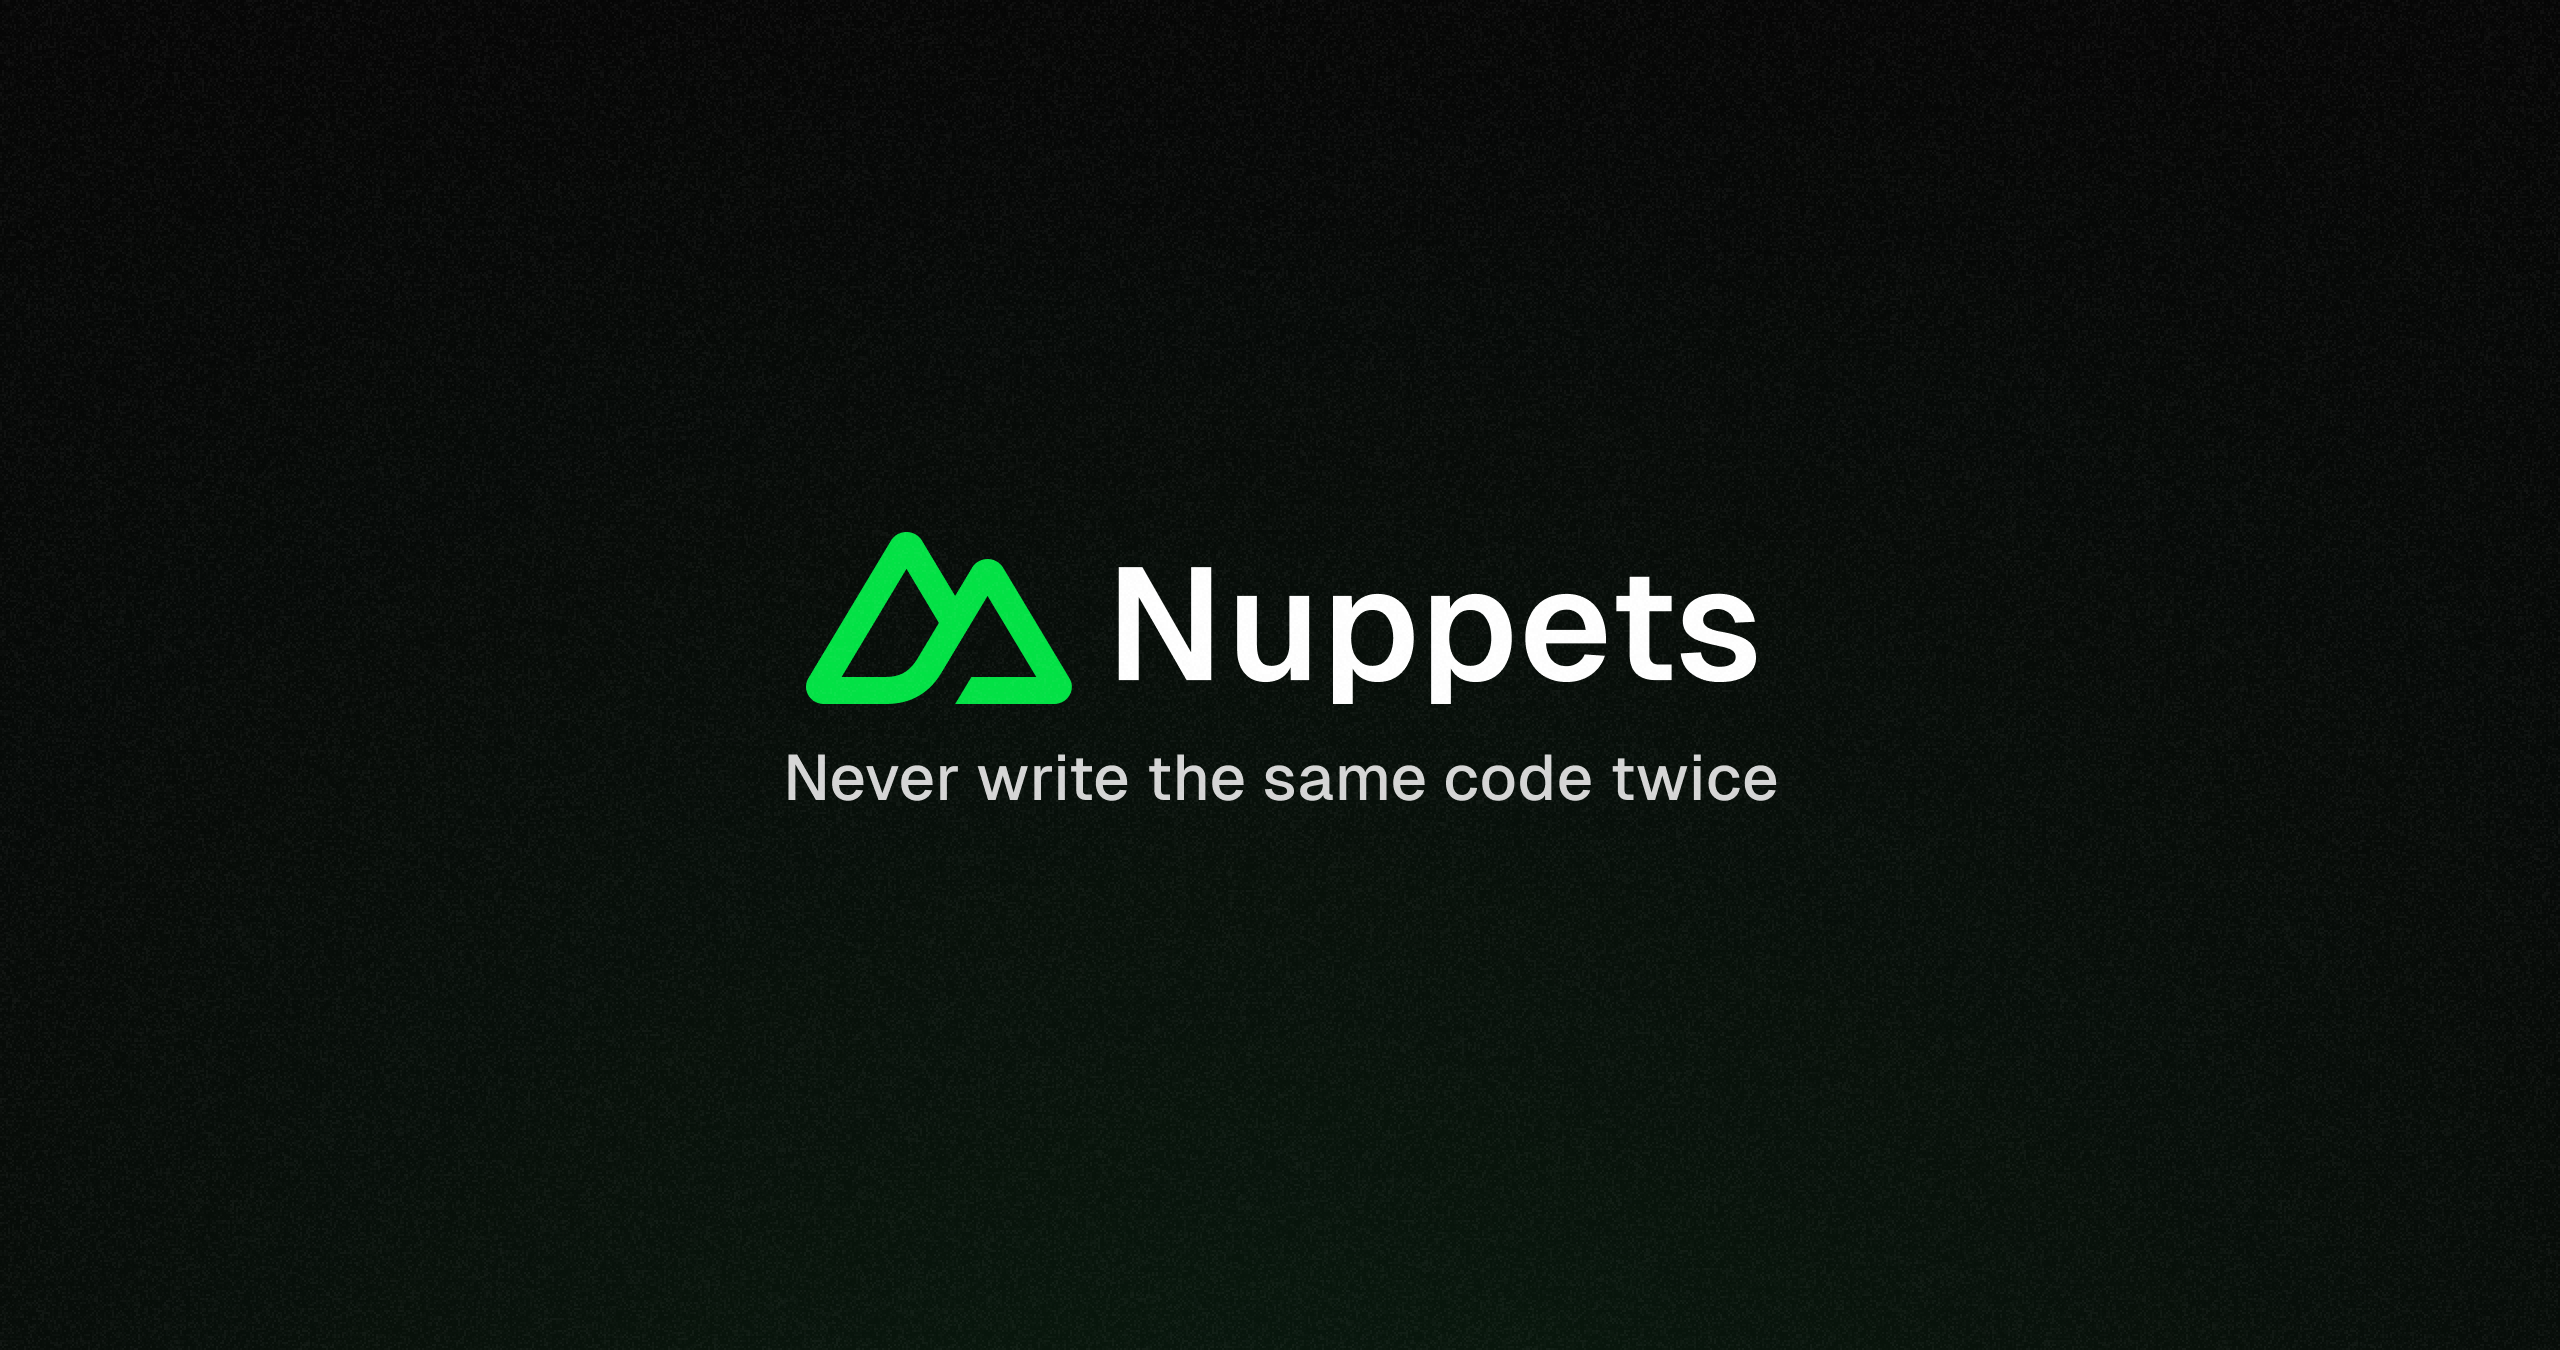
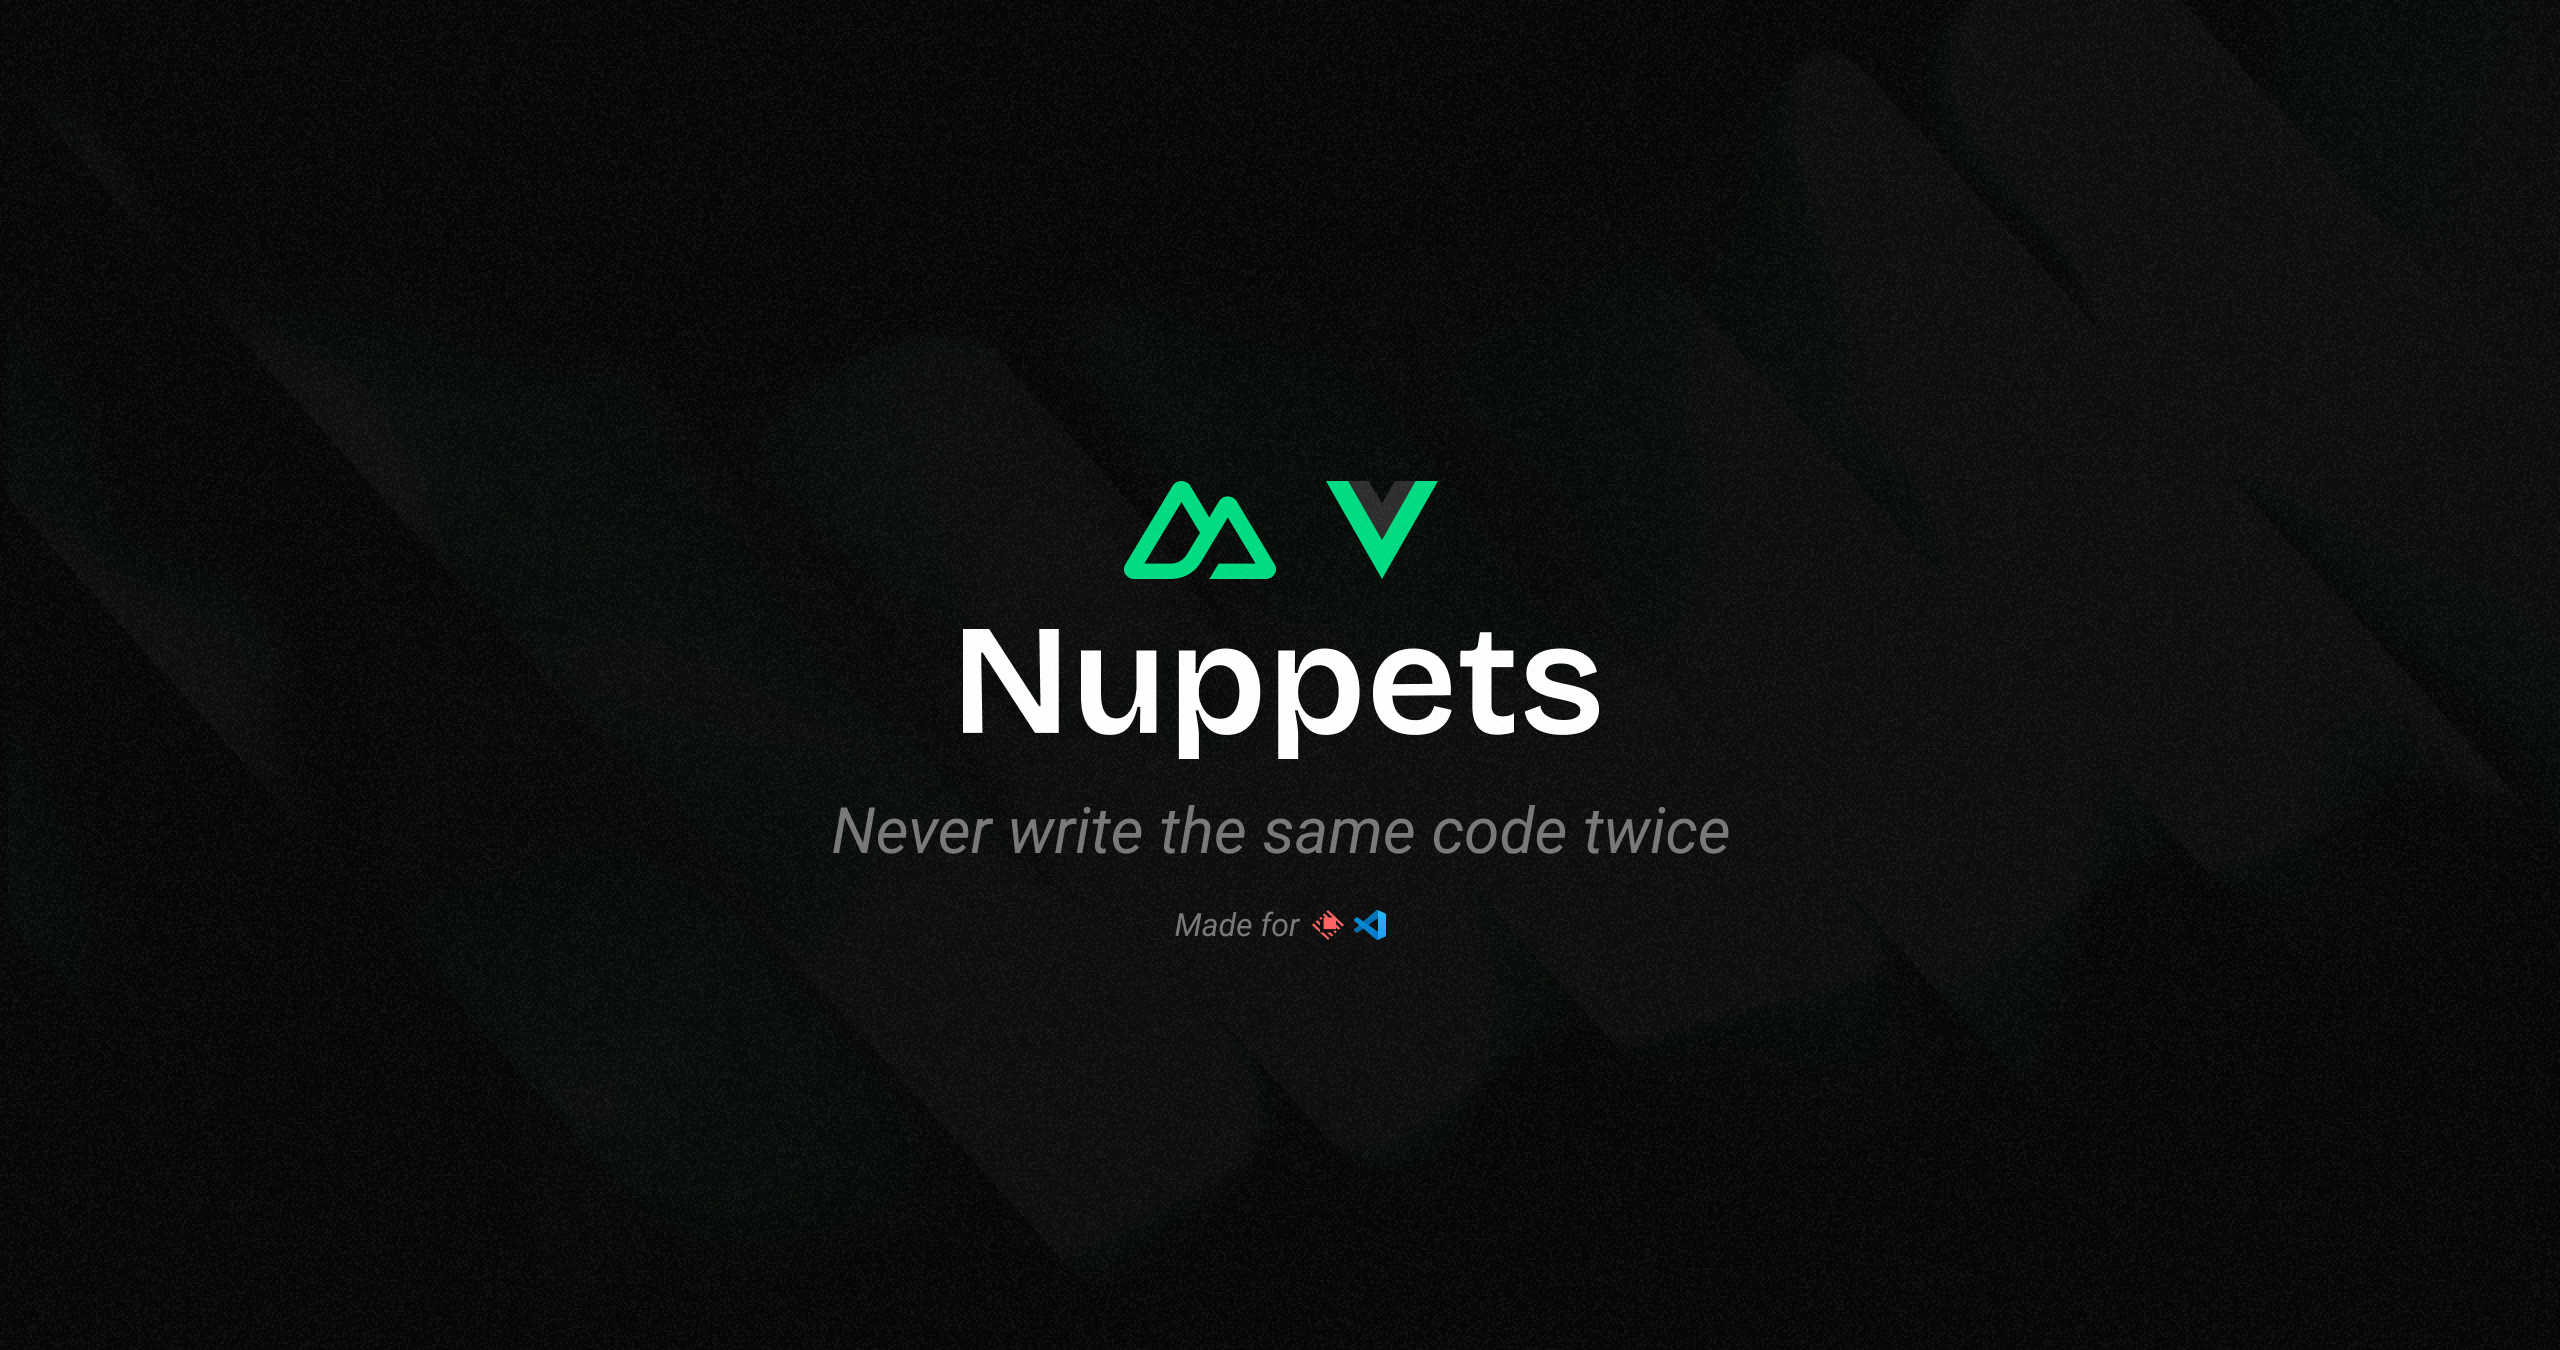
feat: Improve SEO (#4)

Changed region(s): [[0.2812, 0.3422, 0.6875, 0.6533], [0.4688, 0.6844, 0.5, 0.7156]]

diff --git a/app/components/Logo.vue b/app/components/Logo.vue
@@ -1,12 +1,7 @@
 <template>
-  <svg width="243" height="44" viewBox="0 0 243 44" fill="fillCurrent" xmlns="http://www.w3.org/2000/svg">
-    <path d="M38.1485 44H63.427C64.23 44 65.0186 43.7969 65.714 43.4107C66.4049 43.0288 66.9823 42.4732 67.388 41.7999C67.7881 41.1345 67.9996 40.3744 68 39.5997C68 38.8273 67.7878 38.0689 67.3859 37.4001L50.4098 9.11458C50.004 8.44148 49.4268 7.88611 48.7361 7.50425C48.0373 7.11713 47.25 6.91415 46.4496 6.9147C45.6466 6.9147 44.8582 7.11807 44.1628 7.50425C43.4722 7.88612 42.8951 8.4415 42.4894 9.11458L38.1485 16.3517L29.6618 2.19936C29.2557 1.5263 28.6782 0.971027 27.9873 0.589288C27.2883 0.202298 26.5009 -0.000583975 25.7003 1.26256e-06C24.8976 1.26256e-06 24.1087 0.203367 23.4132 0.589288C22.7224 0.971064 22.145 1.52633 21.739 2.19936L0.613594 37.4001C0.212755 38.065 0.000736268 38.825 0 39.5997C0 40.3721 0.210641 41.131 0.612 41.7999C1.01776 42.4732 1.59509 43.0288 2.28597 43.4107C2.98498 43.7978 3.77239 44.0007 4.573 44H20.4406C26.7277 44 31.3639 41.3436 34.5544 36.1609L46.4482 16.3517L58.8992 37.0945H42.2997L38.1485 44ZM20.1817 37.0877L9.10828 37.085L25.7077 9.42964L33.9902 23.2575L28.4447 32.4996C26.3261 35.8622 23.919 37.0877 20.1817 37.0877Z" fill="white" />
-    <path d="M86.0652 9L98.5214 30.814V9H103.65V37.8954H97.3409L85.129 16.6512V37.8954H80V9H86.0652Z" fill="white" />
-    <path d="M124.009 37.8954L123.887 32.0349L124.538 32.4012C124.186 34.4632 123.385 35.9826 122.137 36.9593C120.888 37.9089 119.369 38.3837 117.578 38.3837C115.271 38.3837 113.48 37.6376 112.204 36.1454C110.929 34.6531 110.291 32.6725 110.291 30.2035V16.3256H115.339V28.5756C115.339 29.8779 115.461 30.936 115.705 31.75C115.977 32.564 116.37 33.188 116.886 33.6221C117.428 34.0291 118.161 34.2326 119.084 34.2326C120.495 34.2326 121.608 33.7578 122.422 32.8081C123.236 31.8314 123.643 30.4205 123.643 28.5756V16.3256H128.691V37.8954H124.009Z" fill="white" />
-    <path d="M134.812 16.3256H139.574L139.737 20.843L139.33 20.314C139.873 18.876 140.728 17.7771 141.895 17.0174C143.089 16.2306 144.527 15.8372 146.21 15.8372C148.218 15.8372 149.914 16.3391 151.298 17.343C152.682 18.3469 153.713 19.7035 154.391 21.4128C155.097 23.095 155.45 24.9942 155.45 27.1105C155.45 29.2267 155.097 31.1395 154.391 32.8488C153.713 34.531 152.682 35.874 151.298 36.8779C149.914 37.8818 148.218 38.3837 146.21 38.3837C145.097 38.3837 144.079 38.2074 143.157 37.8547C142.261 37.5019 141.488 36.9864 140.836 36.3081C140.212 35.6298 139.724 34.7888 139.371 33.7849L139.859 33.3779V44H134.812V16.3256ZM139.452 27.1105C139.452 28.4128 139.642 29.6066 140.022 30.6919C140.429 31.75 141.04 32.6047 141.854 33.2558C142.668 33.907 143.659 34.2326 144.826 34.2326C146.589 34.2326 147.919 33.5543 148.815 32.1977C149.737 30.8411 150.199 29.1453 150.199 27.1105C150.199 25.1027 149.737 23.407 148.815 22.0233C147.919 20.6395 146.589 19.9477 144.826 19.9477C143.659 19.9477 142.668 20.2868 141.854 20.9651C141.04 21.6163 140.429 22.4845 140.022 23.5698C139.642 24.6279 139.452 25.8081 139.452 27.1105Z" fill="white" />
-    <path d="M159.895 16.3256H164.658L164.821 20.843L164.414 20.314C164.957 18.876 165.811 17.7771 166.978 17.0174C168.172 16.2306 169.611 15.8372 171.293 15.8372C173.301 15.8372 174.997 16.3391 176.382 17.343C177.766 18.3469 178.797 19.7035 179.475 21.4128C180.181 23.095 180.534 24.9942 180.534 27.1105C180.534 29.2267 180.181 31.1395 179.475 32.8488C178.797 34.531 177.766 35.874 176.382 36.8779C174.997 37.8818 173.301 38.3837 171.293 38.3837C170.181 38.3837 169.163 38.2074 168.24 37.8547C167.345 37.5019 166.571 36.9864 165.92 36.3081C165.296 35.6298 164.807 34.7888 164.455 33.7849L164.943 33.3779V44H159.895V16.3256ZM164.536 27.1105C164.536 28.4128 164.726 29.6066 165.106 30.6919C165.513 31.75 166.123 32.6047 166.938 33.2558C167.752 33.907 168.742 34.2326 169.909 34.2326C171.673 34.2326 173.003 33.5543 173.898 32.1977C174.821 30.8411 175.282 29.1453 175.282 27.1105C175.282 25.1027 174.821 23.407 173.898 22.0233C173.003 20.6395 171.673 19.9477 169.909 19.9477C168.742 19.9477 167.752 20.2868 166.938 20.9651C166.123 21.6163 165.513 22.4845 165.106 23.5698C164.726 24.6279 164.536 25.8081 164.536 27.1105Z" fill="white" />
-    <path d="M183.995 27.1105C183.995 24.8314 184.429 22.8508 185.297 21.1686C186.166 19.4593 187.4 18.1434 189.001 17.2209C190.603 16.2985 192.461 15.8372 194.578 15.8372C196.451 15.8372 198.133 16.2578 199.626 17.0988C201.118 17.9399 202.312 19.2151 203.208 20.9244C204.103 22.6066 204.578 24.6822 204.633 27.1512V28.4942H189.286C189.395 30.3391 189.911 31.7771 190.833 32.8081C191.756 33.812 193.004 34.314 194.578 34.314C195.582 34.314 196.491 34.0562 197.306 33.5407C198.147 32.9981 198.771 32.2519 199.178 31.3023L204.348 31.6686C203.696 33.7306 202.475 35.3721 200.684 36.593C198.92 37.7868 196.885 38.3837 194.578 38.3837C192.461 38.3837 190.603 37.9225 189.001 37C187.4 36.0775 186.166 34.7616 185.297 33.0523C184.429 31.343 183.995 29.3624 183.995 27.1105ZM199.422 25.0349C199.205 23.2713 198.649 21.969 197.753 21.1279C196.885 20.2868 195.827 19.8663 194.578 19.8663C193.113 19.8663 191.932 20.3275 191.037 21.25C190.141 22.1454 189.571 23.407 189.327 25.0349H199.422Z" fill="white" />
-    <path d="M215.722 11.4419V31.343C215.722 32.1841 215.926 32.8217 216.333 33.2558C216.767 33.6899 217.378 33.907 218.165 33.907H221.421V37.8954H217.391C215.193 37.8954 213.524 37.3391 212.384 36.2267C211.245 35.1143 210.675 33.4864 210.675 31.343V11.4419H215.722ZM221.421 16.3256V20.2733H207.296V16.3256H221.421Z" fill="white" />
-    <path d="M237.627 23.2035C237.41 22.1182 236.867 21.2636 235.998 20.6395C235.157 20.0155 234.207 19.7035 233.149 19.7035C232.091 19.7035 231.209 19.9612 230.503 20.4767C229.825 20.9923 229.485 21.6705 229.485 22.5116C229.513 23.3527 229.933 24.0039 230.747 24.4651C231.562 24.8992 232.62 25.2384 233.922 25.4826C235.985 25.8353 237.667 26.2694 238.97 26.7849C240.273 27.2733 241.263 27.9516 241.942 28.8198C242.647 29.688 243 30.8004 243 32.157C243 33.5407 242.593 34.6938 241.779 35.6163C240.965 36.5388 239.866 37.2306 238.482 37.6919C237.125 38.1531 235.591 38.3837 233.882 38.3837C231.955 38.3837 230.245 38.0853 228.753 37.4884C227.26 36.8915 226.08 36.0504 225.211 34.9651C224.37 33.8527 223.882 32.5504 223.746 31.0581L228.916 30.7733C229.051 31.5601 229.323 32.2248 229.73 32.7674C230.164 33.3101 230.72 33.7306 231.399 34.0291C232.077 34.3275 232.878 34.4767 233.8 34.4767C234.859 34.4767 235.781 34.2733 236.568 33.8663C237.383 33.4593 237.79 32.8353 237.79 31.9942C237.79 31.4244 237.613 30.9632 237.26 30.6105C236.935 30.2578 236.514 30 235.998 29.8372C235.51 29.6473 234.832 29.4574 233.963 29.2674C233.746 29.2403 233.448 29.1725 233.068 29.064C231.087 28.657 229.485 28.2229 228.264 27.7616C227.043 27.3004 226.066 26.6628 225.333 25.8488C224.628 25.0078 224.275 23.936 224.275 22.6337C224.275 21.25 224.641 20.0426 225.374 19.0116C226.134 17.9806 227.192 17.1938 228.549 16.6512C229.933 16.0814 231.561 15.7965 233.434 15.7965C235.931 15.7965 238.007 16.4477 239.662 17.75C241.345 19.0252 242.362 20.7616 242.715 22.9593L237.627 23.2035Z" fill="white" />
-  </svg>
+  <div>
+    <span class="font-grotesque text-2xl font-bold">
+      Nuppets
+    </span>
+  </div>
 </template>

diff --git a/app/components/Hero.vue b/app/components/Hero.vue
@@ -11,10 +11,14 @@ defineProps<{
     :title
     :description
     icon="simple-icons:nuxtdotjs"
-    :ui="{ description: 'italic before:content-[open-quote] after:content-[close-quote]', headline: 'mb-0', links: 'mt-4' }"
+    :ui="{ title: 'font-grotesque', description: 'italic before:content-[open-quote] after:content-[close-quote]', headline: 'mb-0', links: 'mt-4' }"
   >
     <template #headline>
-      <UIcon name="simple-icons:nuxtdotjs" class="size-10" />
+      <div class="flex items-center justify-center gap-2">
+        <UIcon name="simple-icons:nuxtdotjs" class="size-10" />
+        <USeparator orientation="vertical" class="h-10 w-2" />
+        <UIcon name="simple-icons:vuedotjs" class="h-10 w-8" />
+      </div>
     </template>
 
     <template #links>

diff --git a/app/app.config.ts b/app/app.config.ts
@@ -16,12 +16,33 @@ export default defineAppConfig({
     }
   },
   title: 'Nuppets',
-  description: 'Never write the same code twice',
+  description: 'A universal hub for Nuxt and Vue snippets - Available for Raycast, VS Code, and more',
   link: [
     {
       rel: 'icon',
       type: 'image/x-icon',
       href: '/favicon.ico',
+    },
+    {
+      rel: 'apple-touch-icon',
+      sizes: '180x180',
+      href: '/apple-touch-icon.png',
+    },
+    {
+      rel: 'icon',
+      type: 'image/png',
+      sizes: '32x32',
+      href: '/favicon-32x32.png',
+    },
+    {
+      rel: 'icon',
+      type: 'image/png',
+      sizes: '16x16',
+      href: '/favicon-16x16.png',
+    },
+    {
+      rel: 'manifest',
+      href: '/site.webmanifest',
     },
   ],
 })

diff --git a/app/app.vue b/app/app.vue
@@ -16,7 +16,12 @@ const {
 
 useHead({
   title,
-  titleTemplate: '',
+  titleTemplate: '%s | Nuxt and Vue snippets collection',
+  meta: [
+    { name: 'viewport', content: 'width=device-width, initial-scale=1.0' },
+    { name: 'charset', content: 'utf-8' },
+    { name: 'color-scheme', content: 'light dark' },
+  ],
   link: link,
 })
 

diff --git a/app/assets/css/main.css b/app/assets/css/main.css
@@ -4,6 +4,7 @@
 @theme {
   --font-geist: "Geist", sans-serif;
   --font-mono: "JetBrains Mono", monospace;
+  --font-grotesque: "Bricolage Grotesque", sans-serif;
 }
 
 :root {

diff --git a/README.md b/README.md
@@ -1,7 +1,7 @@
 <div align="center">
-<img src="public/banner.png" alt="Nuppets - Universal Nuxt Snippets" />
+<img src="public/banner.png" alt="Nuppets - Universal Nuxt and Vue Snippets" />
 
-### Universal Nuxt snippets that work wherever you code
+### Universal Nuxt and VUe snippets collection that work wherever you code
 
 [Website](https://nuppets.dev)
 
@@ -15,13 +15,13 @@ Made with 💚 for the Nuxt community
 
 ## 🚀 About
 
-Nuppets is more than just a snippet collection - it's a universal hub for Nuxt development resources. Starting with carefully crafted snippets available across multiple platforms (Raycast, VS Code, and more), Nuppets aims to become the go-to resource for everything that makes Nuxt development more efficient.
+Nuppets is more than just a snippet collection - it's a universal hub for Nuxt and Vue development resources. Starting with carefully crafted snippets available across multiple platforms (Raycast, VS Code, and more), Nuppets aims to become the go-to resource for everything that makes Nuxt / Vue development more efficient.
 
 ## ✨ Features
 
 - 📱 **Cross-Platform**: Works with Raycast, VS Code, and more
-- 🎯 **Purpose-Built**: Specifically designed for Nuxt development
-- 🔄 **Always Updated**: Regular updates to match Nuxt's evolution
+- 🎯 **Purpose-Built**: Specifically designed for Nuxt and Vue development
+- 🔄 **Always Updated**: Regular updates to match Nuxt / Vue's evolution
 - 🎨 **Customizable**: Easy to adapt to your workflow
 - 🤝 **Community-Driven**: Built by developers, for developers
 
